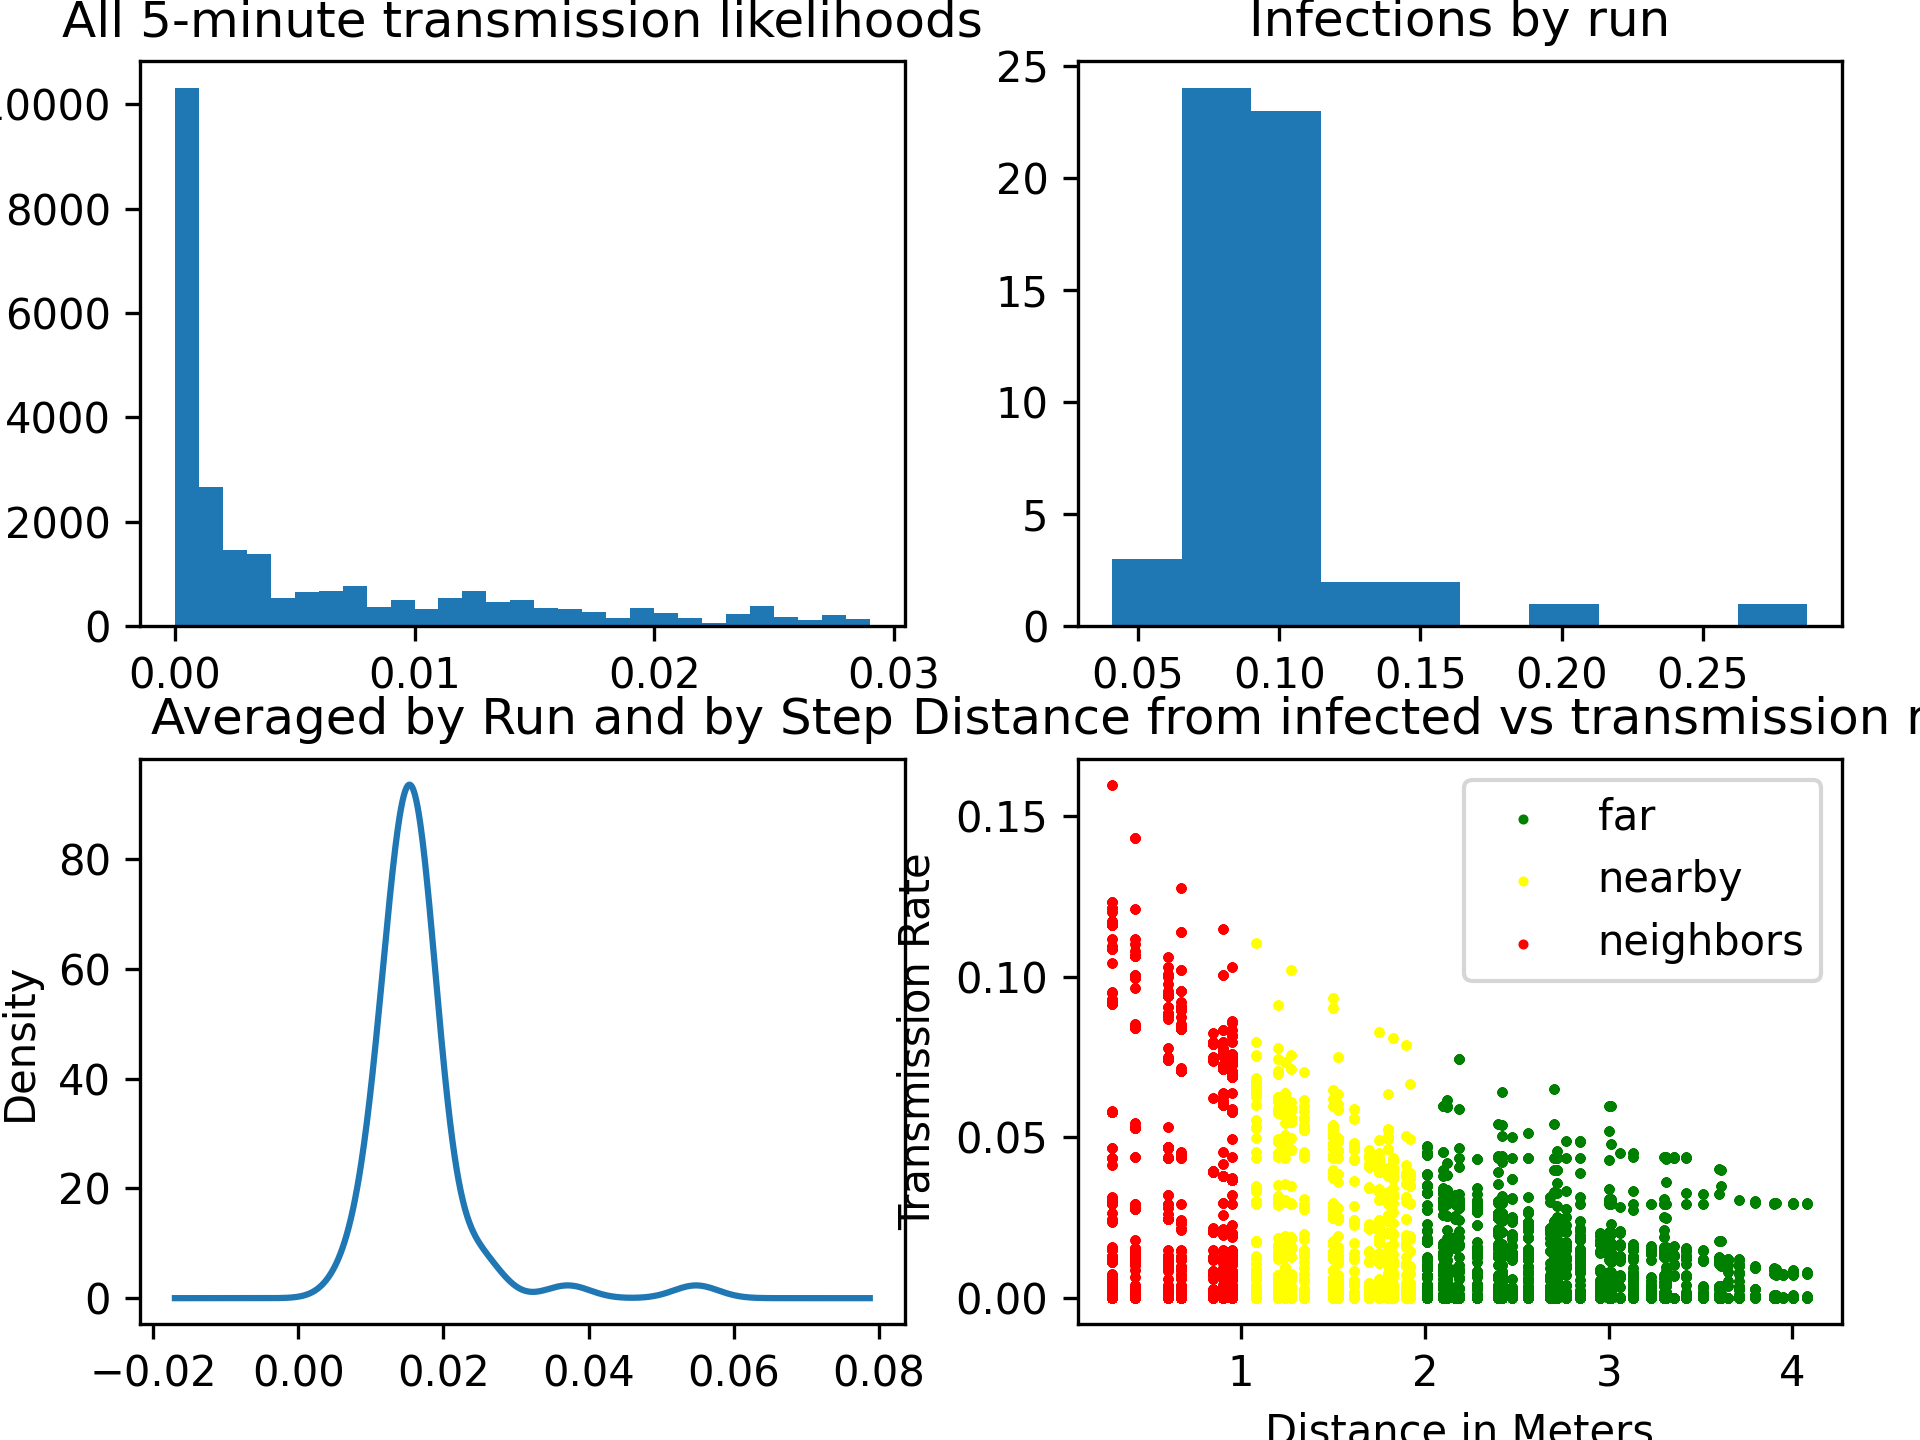
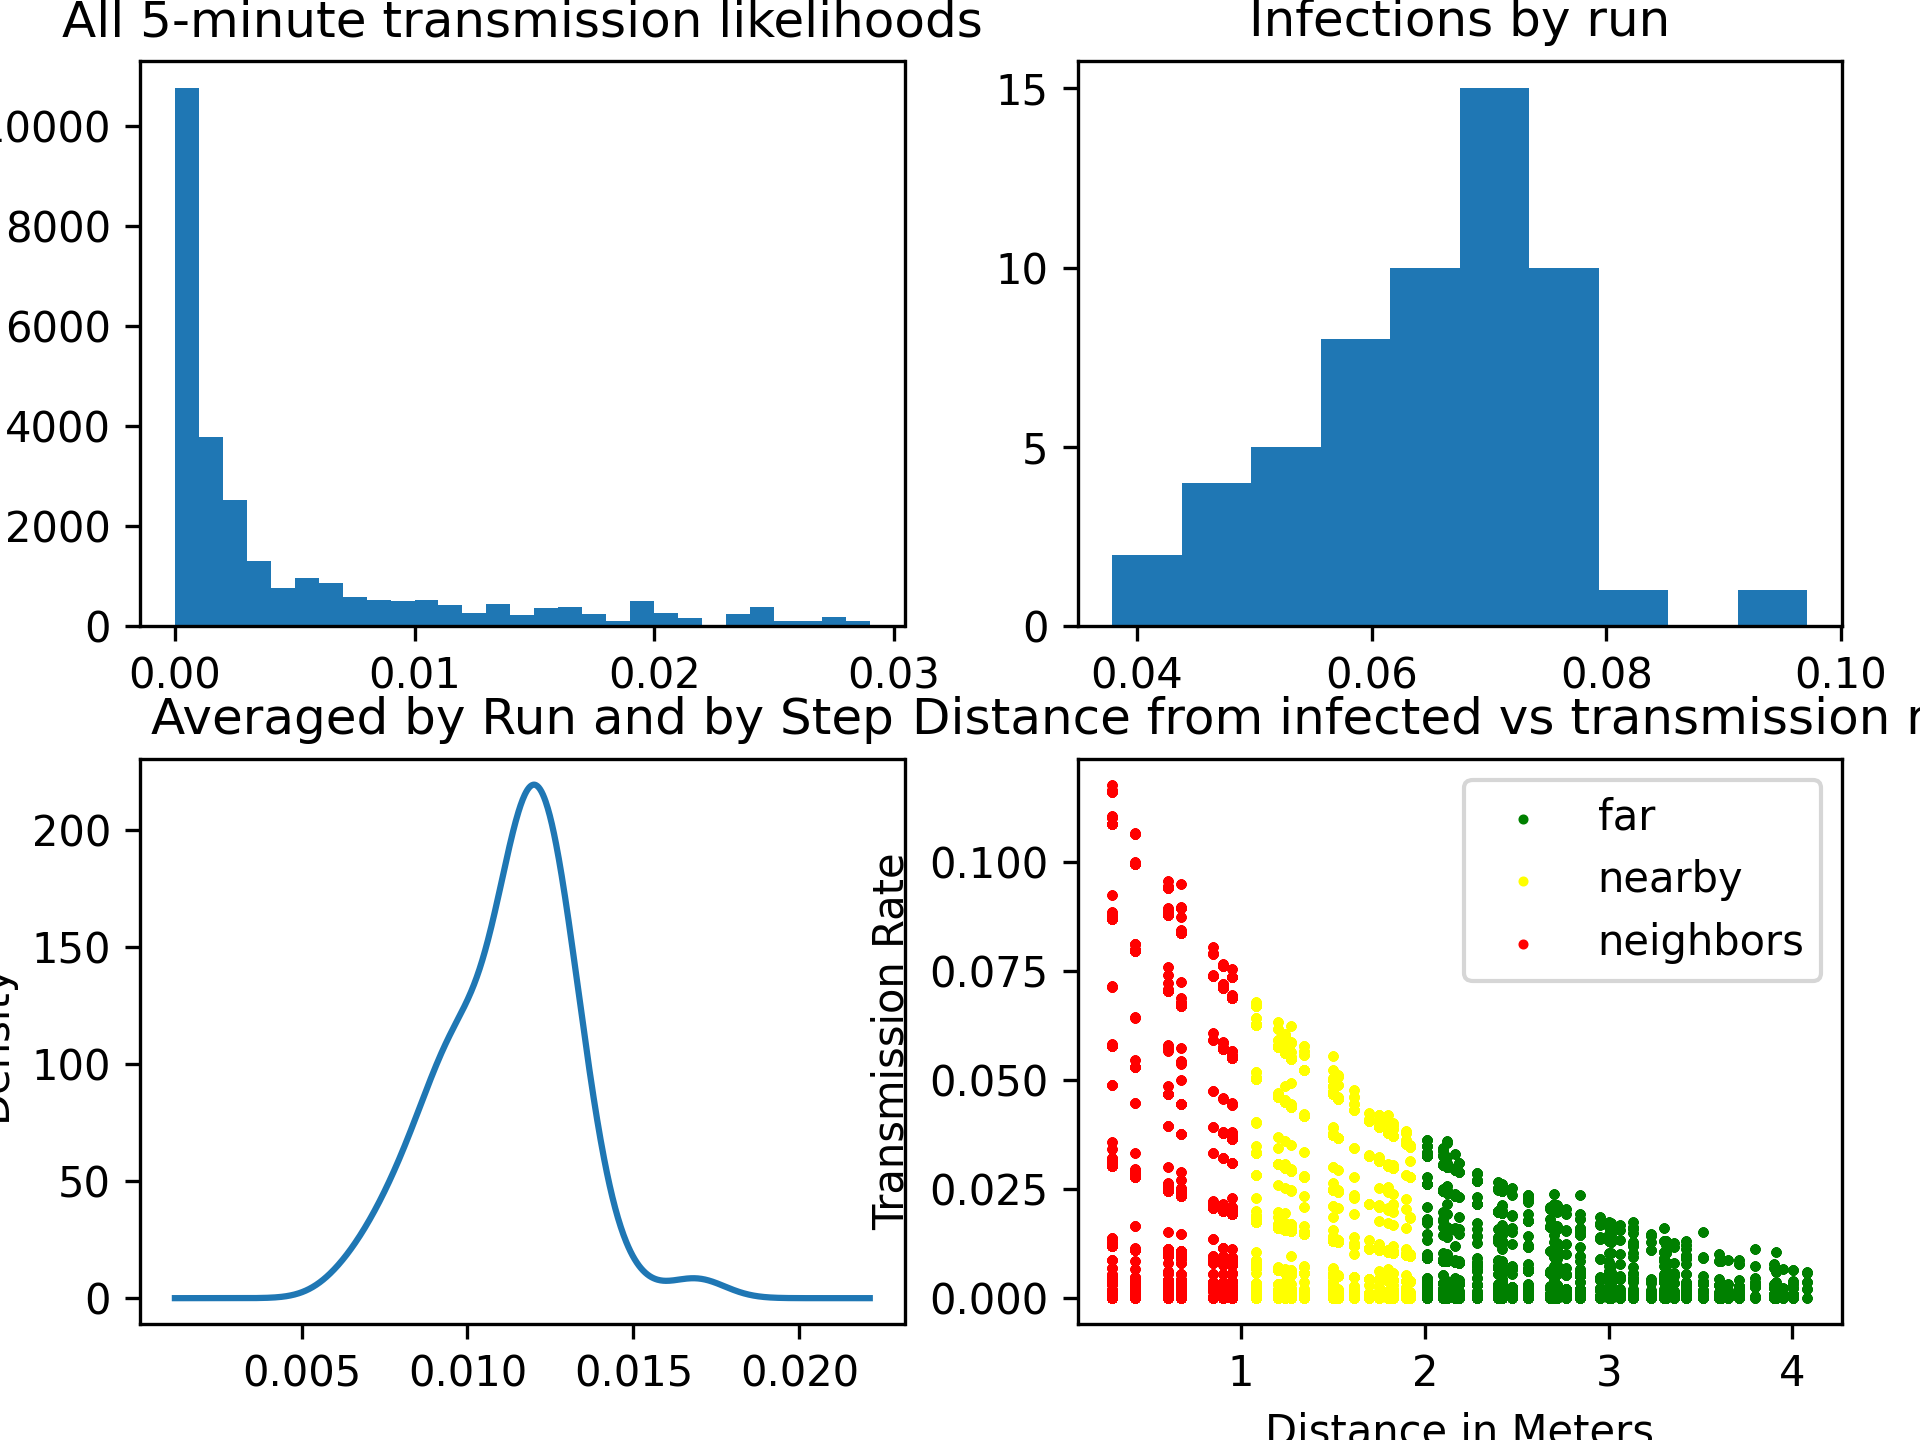
isthatitq

diff --git a/av.py b/av.py
@@ -203,21 +203,21 @@ class user_viz():
         # print(len(bus_trip))
 
 
-        pd.Series(bus_trip[1]).plot.hist(color='blue', linewidth=2, edgecolor='black',bins=np.arange(0, .056, .001))
+        pd.Series(bus_trip[2]).plot.hist(color='blue', linewidth=2, edgecolor='black',bins=14)
         # print('transmissions', len(bus_trip), bus_trip)
         if int(self.window_var) == 0:
             win_v = 'closed'
         else:
             win_v = 'open ' + str(self.window_var) + ' inches'
-        # plt.title('Distribution of average likelihood of infection windows ' + win_v)
-        plt.xlim(0, .05)
+        plt.title('Distribution of average likelihood of infection with windows ' + win_v)
+        # plt.xlim(0, .05)
         # set x ticks
         # str_x = np.array([str(round(int * 100, 2))+'%' for int in temp_x])
         # plt.xticks(temp_x, str_x)
         plt.ticklabel_format(axis="x")#, style="sci", scilimits=(0,0))
         # rescale y axis to be % based
-        plt.xlabel('Risk is averaged within and across all runs')
-        plt.ylabel('Density estimation of probability of occurrence')
+        plt.xlabel('Likelihood of infection')
+        plt.ylabel('Number of Students')
         plt.savefig('results/window_curve.png', dpi=300)
         # plt.show()
         plt.close()
